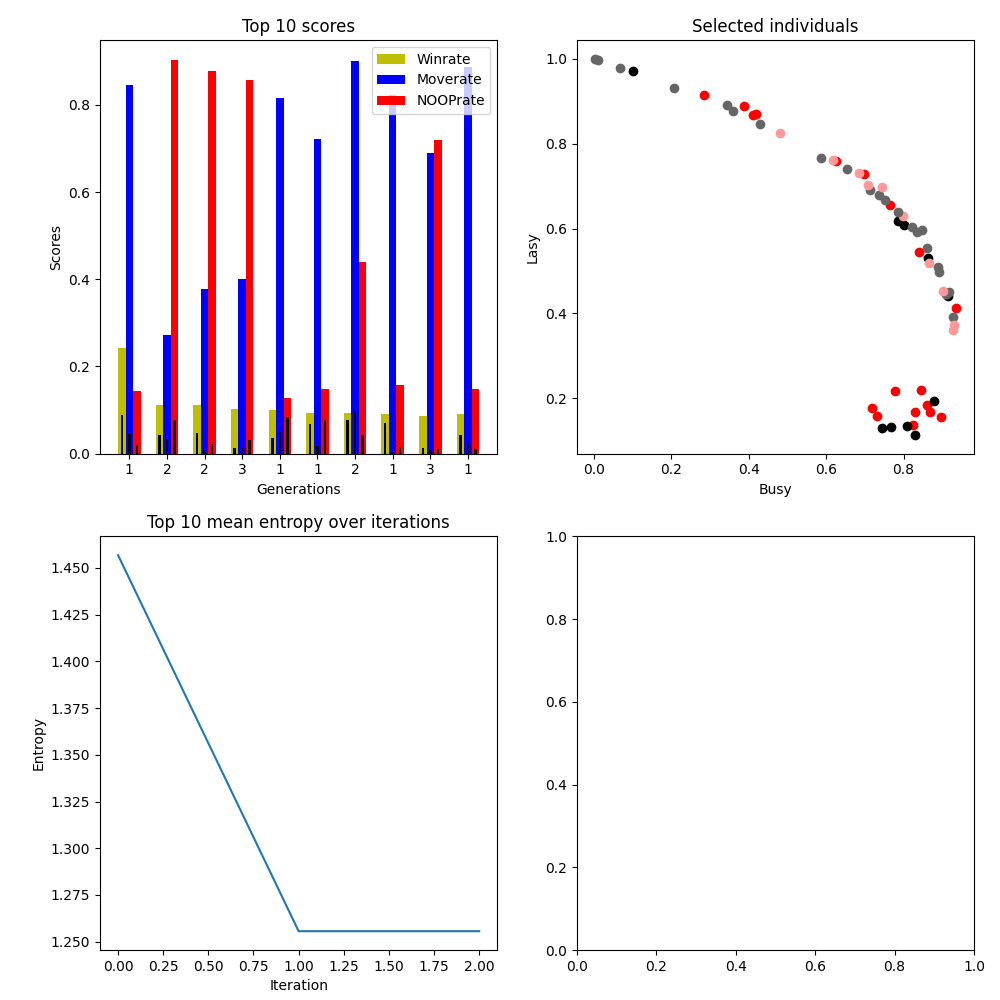
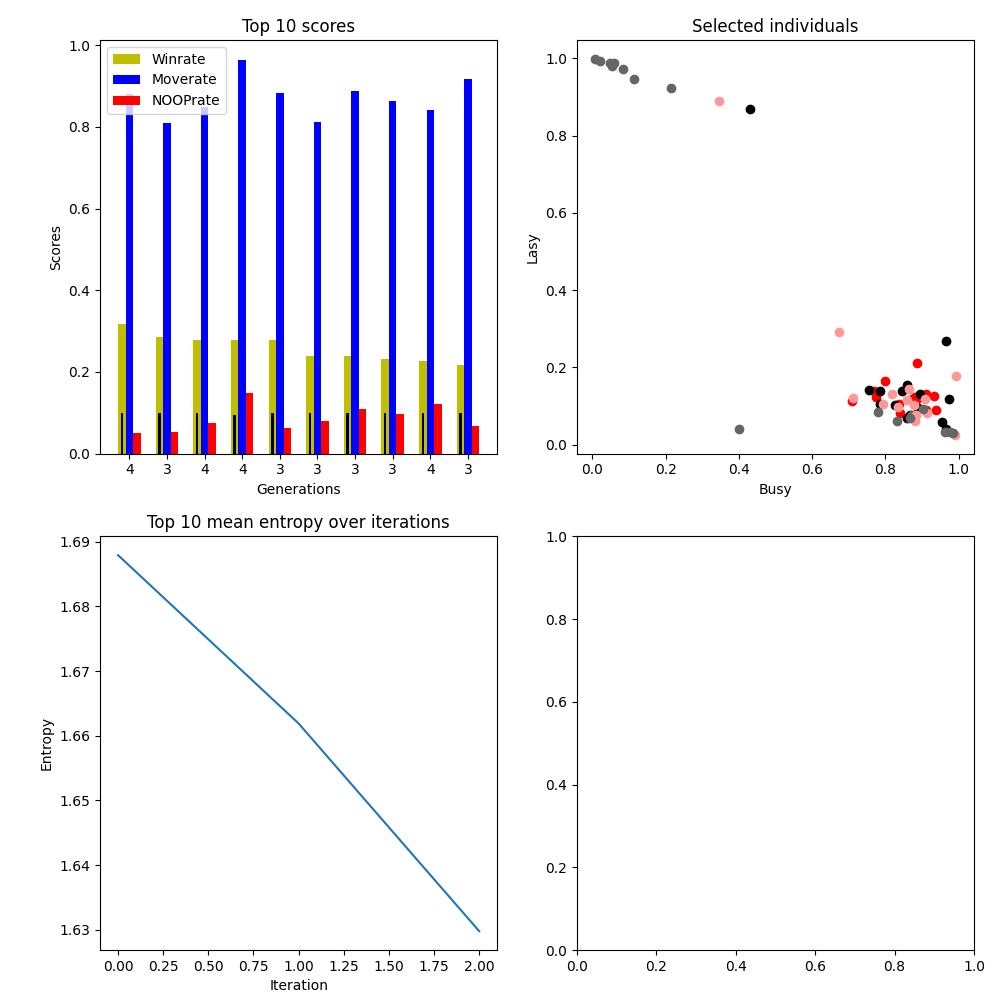
3-15

diff --git a/evolution_server.py b/evolution_server.py
@@ -25,8 +25,8 @@ import socket
 
 class EvolutionServer:
 
-    def __init__(self, ID, env_id='Pong-ram-v0', collector_ip=None, traj_length=256, batch_size=1, max_train=10, early_stop=7,
-                 round_length=100, eval_length=2000, subprocess=True, mutation_rate=0.5):
+    def __init__(self, ID, env_id='Pong-ram-v0', collector_ip=None, traj_length=128, batch_size=1, max_train=10, early_stop=7,
+                 round_length=100, eval_length=5000, subprocess=True, mutation_rate=0.5):
         if collector_ip is None:
             self.ip = socket.gethostbyname(socket.gethostname())
         else:
@@ -249,8 +249,8 @@ class EvolutionServer:
             self.trajectory['state'][0, frame_count] = observation
             self.trajectory['action'][0, frame_count] = action
             self.trajectory['rew'][0, frame_count] = reward * player.reward_weight[0] +\
-                                                     moved * player.reward_weight[1] +\
-                                                     act * player.reward_weight[2]
+                                                     0.03 * moved * player.reward_weight[1] +\
+                                                     0.03 * act * player.reward_weight[2]
             self.trajectory['base_rew'][0, frame_count] = reward
 
             if done:
